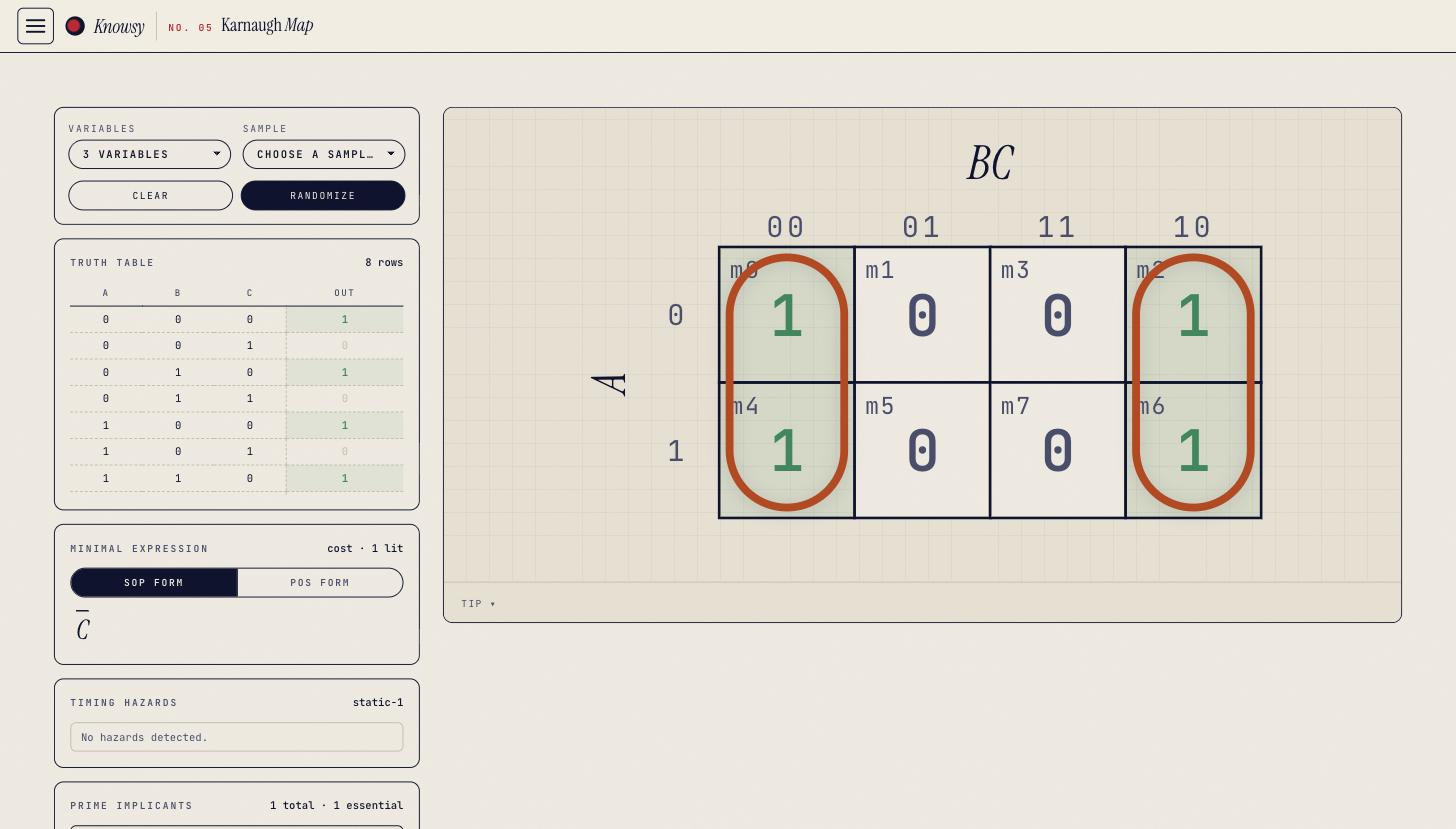
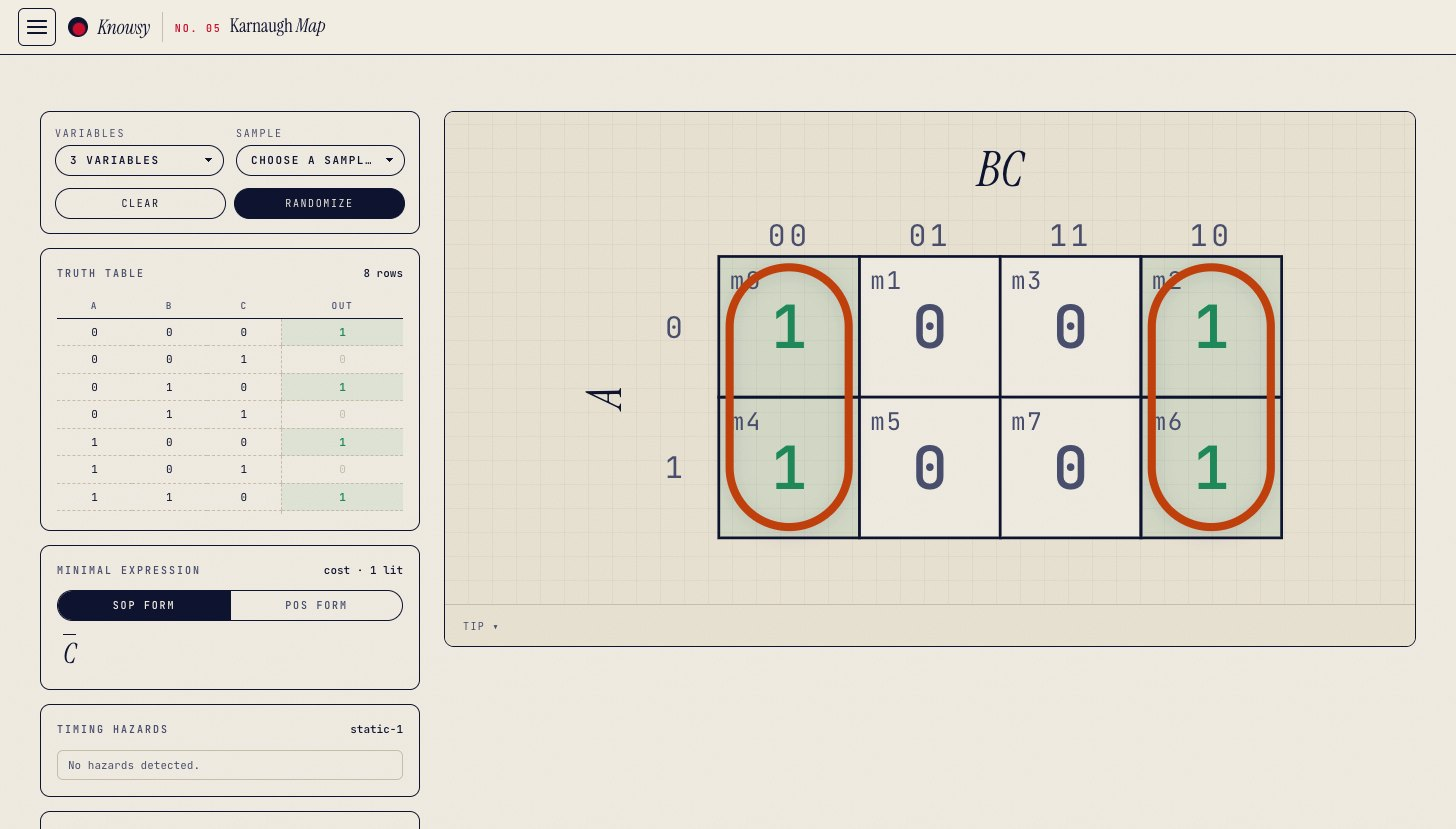
Org page Knowsy: the 20 modules on the live site, with screenshots taken from it

diff --git a/profile/Readme.md b/profile/Readme.md
@@ -13,7 +13,7 @@
 
 [![IDoc](https://img.shields.io/github/v/release/RU-EducationalPlatform/idoc-desktop?style=flat-square&label=IDoc&labelColor=0E2A31&color=1F8F7A)](https://github.com/RU-EducationalPlatform/idoc-desktop/releases/latest)
 ![Desktop](https://img.shields.io/badge/desktop-macOS%20·%20Windows%20·%20Linux-0E2A31?style=flat-square&labelColor=1F8F7A)
-![Knowsy](https://img.shields.io/badge/Knowsy-50%20modules-1F8F7A?style=flat-square&labelColor=0E2A31)
+![Knowsy](https://img.shields.io/badge/Knowsy-20%20modules-1F8F7A?style=flat-square&labelColor=0E2A31)
 ![Live](https://img.shields.io/badge/live-idoc.page-0E2A31?style=flat-square&labelColor=1F8F7A)
 [![Downloads](https://img.shields.io/endpoint?url=https%3A%2F%2Fraw.githubusercontent.com%2FRU-EducationalPlatform%2Fidoc-desktop%2Fmain%2Fstats%2Fdownloads.json&cb=3&style=flat-square&labelColor=1F8F7A&color=0E2A31)](https://github.com/RU-EducationalPlatform/idoc-desktop#downloads)
 
@@ -58,7 +58,7 @@ prosAIdon makes the software a STEM course runs on. IDoc came first. The others 
 
 **Docent** is the course system. It holds rosters, assignments and grades, hands out exercises live during class, and runs quizzes. Handwritten exams are graded by AI that runs on our own machines, so student records stay inside the FERPA boundary. Grades can be sent back to Canvas. It is being piloted in a Rutgers ECE course this semester.
 
-**Knowsy** is a library of simulations and virtual manipulables that you can put inside an IDoc: a Karnaugh map that groups itself, a Smith chart you drag a load around, a pipeline you watch stall. They use simplified versions of real tools, and they work the same on every platform.
+**Knowsy** is a library of simulations and virtual manipulables that you can put inside an IDoc: a Karnaugh map that groups itself, a CMOS gate you watch conduct, a solar system you fly through. They use simplified versions of real tools, and they work the same on every platform.
 
 **KSAT** reads any IDoc aloud in a trained voice, equations included. It is built for blind and low-vision readers and for anyone who would rather listen while they do something else, and it is designed to use very little power.
 
@@ -140,17 +140,19 @@ Installers are unsigned, so macOS and Windows will warn you on first open.
 
 ## Knowsy
 
-Forty-seven interactive modules for the things that do not survive a static page.
-You do not read about how a pipeline stalls; you watch hazards move through one.
+Twenty interactive modules for the things that do not survive a static page.
 You do not memorise a truth table; you drop minterms on a Karnaugh map and watch
-it group itself.
+it group itself. You do not read about how a CMOS gate works; you flip the inputs
+and watch the current find its path.
 
-Assembly simulators for x86, AArch64, RISC-V and LC-3, each with real registers,
-flags and a memory inspector. Bits as numbers and bits as characters. Boolean
-algebra, K-maps, integer overflow, floating point, Hamming codes and CRC. A
-Verilog simulator with a waveform viewer. A Smith chart you drag a load around.
-Antenna radiation patterns in 2-D polar and a 3-D dome. A shader playground with
-GPU printf. Solar system flight, celestial navigation, map projections.
+There are assembly simulators for x86, AArch64, RISC-V and LC-3 with real
+registers and a memory inspector, plus bits as numbers, bits as characters, a
+bit-operations ALU and boolean algebra that simplifies one law at a time. An
+error-coding lab covers parity, Hamming and CRC, and a cryptography module steps
+through XOR, Enigma and AES. A Verilog simulator has a waveform viewer and FPGA
+resource estimates. The rest are MOSFET gates, semiconductor crystals, a shader
+playground with GPU printf, a solar system you can fly through, the periodic
+table, a data structures textbook, systems diagrams and a sandboxed Unix shell.
 
 They run at **[knowsy.duckdns.org](https://knowsy.duckdns.org)**, and a professor
 can open one on a projector without signing in to anything.
@@ -164,27 +166,25 @@ can open one on a projector without signing in to anything.
 <br>
 
 <div align="center">
-<img src="https://raw.githubusercontent.com/RU-EducationalPlatform/.github/main/assets/knowsy-smith.jpg" alt="The Smith chart lab: reflection coefficient, VSWR and return loss across the top, and a Smith chart with a draggable load point" width="880">
+<img src="https://raw.githubusercontent.com/RU-EducationalPlatform/.github/main/assets/knowsy-mosfet.jpg" alt="The CMOS gates module: a two-input NAND drawn as transistors and as switches, with the conducting path highlighted and a truth table" width="880">
 <br>
-<sub>Drag the load around the chart and watch VSWR, return loss and mismatch loss move with it</sub>
-</div>
-
-
-
-<br>
-
-<div align="center">
-<img src="https://raw.githubusercontent.com/RU-EducationalPlatform/.github/main/assets/knowsy-solar.jpg" alt="The solar system module: the Sun and all eight planets on their orbits against a starfield, with speed controls and an n-body toggle" width="880">
-<br>
-<sub>Every planet on its real orbit, at a date you choose, with an n-body mode and a fly camera</sub>
+<sub>Flip the inputs of a NAND and watch the conducting path switch between the pull-up and pull-down networks</sub>
 </div>
 
 <br>
 
 <div align="center">
-<img src="https://raw.githubusercontent.com/RU-EducationalPlatform/.github/main/assets/knowsy-trebuchet.jpg" alt="The siege engine lab: launch speed, angle, range, peak height and impact energy across the top, above a side-on battlefield with hills and trees" width="880">
+<img src="https://raw.githubusercontent.com/RU-EducationalPlatform/.github/main/assets/knowsy-shader.jpg" alt="The shader playground: a GLSL editor beside a live plasma render, with frame rate and probe counts above" width="880">
 <br>
-<sub>Tune a counterweight trebuchet and watch range, peak height and impact energy answer back</sub>
+<sub>Write GLSL on the left and see it on the right. Probes are added for you, so you can read any value without printf by hand</sub>
+</div>
+
+<br>
+
+<div align="center">
+<img src="https://raw.githubusercontent.com/RU-EducationalPlatform/.github/main/assets/knowsy-solar.jpg" alt="The solar system module: the Sun and planets on their orbits against a starfield, with speed, orbit and trail controls" width="880">
+<br>
+<sub>Every planet on its orbit at a date you choose, with an n-body mode and a fly camera</sub>
 </div>
 
 ### How the two fit together
